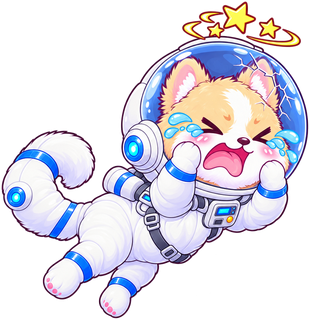
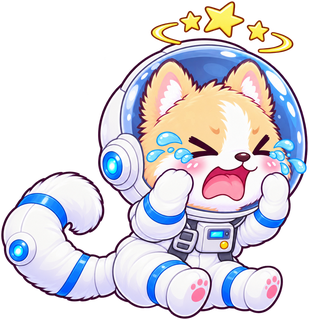
v0.8.07 방울이 우주복 맞은 그림 교체 — 엉덩방아·뒷다리 앞으로, 혹·유리 금 없음

diff --git a/index.html b/index.html
@@ -1027,7 +1027,7 @@
   const elTitle = document.getElementById("overTitle");
   const coinNote = document.getElementById("coinNote");
 
-  const GAME_VERSION = "v0.8.06";
+  const GAME_VERSION = "v0.8.07";
   /* 제작사 스플래시(bamhobak friends 로고) — 2026-09-20 끔. 다시 켜려면 true */
   const SPLASH_USE = false;   // 코드를 고칠 때마다 뒤 두 자리를 올린다
   document.getElementById("ver").textContent = GAME_VERSION;
@@ -1582,10 +1582,12 @@
        얼굴 크기는 adj 0.571 로 땅 위와 같고, 맞은 그림(spacehurt6_1)은 헬멧 지름이 헤엄 때와 같아지게 adj 를 잡았다. */
     /* v0.8.06 새 방울이(짧은 귀)에 맞춰 우주복도 새로 — 하얀 단단한 헬멧에 큰 유리, 파란 띠
        (OpenAI b2_suitA_1 → Ludo 49장 시트 7x7, 칸 214x200). 귀가 땅 위와 같은 크기로 헬멧 안에 들어간다.
-       맞은 그림(b2_spacehurt2_1)은 헬멧 지름이 헤엄 때와 같아지게 adj 를 잡았다. */
+       맞은 그림은 헬멧 지름이 헤엄 때와 같아지게 adj 를 잡았다.
+       v0.8.07 맞은 그림 교체 — 땅 위 맞은 그림처럼 엉덩방아 찧고 뒷다리를 앞으로 뻗는다. 헬멧이 머리를
+       지켰으니 혹도, 유리 금도 없다 (Codex cx_spacehurt3_3 을 사용자가 손봄). */
     right: { img: null, aspect: 1.0700, head: 0.400, cx: 0.700, cy: 0.390, adj: 0.5710,
              bcx: 0.500, bcy: 0.530, brr: 0.530, float: true },
-    hurt:  { img: null, aspect: 0.9688, head: 0.360, cx: 0.720, cy: 0.420, adj: 0.5400,
+    hurt:  { img: null, aspect: 0.9656, head: 0.360, cx: 0.680, cy: 0.400, adj: 0.5000,
              bcx: 0.500, bcy: 0.540, brr: 0.520 }
   };
   /* 무소유 전용 우주복 —

diff --git a/README.md b/README.md
@@ -5,7 +5,7 @@
 👉 **플레이: https://bamhobak.github.io/ddongpi/**
 
 > 이 문서는 `index.html` 의 실제 값을 옮겨 적은 것입니다. 숫자를 고쳤으면 여기도 같이 고쳐 주세요.
-> 마지막으로 맞춰 본 판: **v0.8.06**
+> 마지막으로 맞춰 본 판: **v0.8.07**
 
 ## 조작
 - 📱 모바일: 화면 아무 데나 손가락을 대고 좌우로 **끌기** (누른 자리가 기준점 — 순간이동하지 않음). 조작은 이 하나뿐입니다 — 십자패드는 v0.8.02 에 없앴습니다
@@ -294,7 +294,7 @@
 | `bangul_hurt.png` (맞았을 때, 1초) | OpenAI — 머리에 혹·별, 눈 `> <`, 눈물, 엉엉 | 게임 안 |
 | `bangul_space_right.png` (우주복 정지) | OpenAI — **하얀 단단한 헬멧에 큰 유리**(귀가 땅 위와 같은 크기로 쏙), 파란 띠 두른 하얀 우주복, 등에 산소통 (v0.8.06) | 우주복 헤엄의 원본 |
 | `bangul_space_swim_sheet.webp` (우주 개헤엄 49장, 7×7 시트, 78초~) | 위 그림을 Ludo 로 움직임 | 게임 안 |
-| `bangul_space_hurt.png` (우주에서 맞았을 때) | OpenAI — 헬멧에 금, `> <` 로 엉엉, 별 (헬멧 크기를 헤엄 때와 맞춤) | 게임 안 |
+| `bangul_space_hurt.png` (우주에서 맞았을 때) | Codex(ChatGPT 구독) — 땅 위 맞은 그림처럼 엉덩방아·뒷다리 앞으로, `> <` 로 엉엉, 별. 헬멧이 지켜 줘서 **혹·유리 금 없음** (v0.8.07, 헬멧 크기를 헤엄 때와 맞춤) | 게임 안 |
 | `bangul_swim_sheet.webp` (개헤엄 49장, 7×7 시트) | 위 그림을 Ludo `animateSprite`(hydra, 3초)로 움직임 | 게임 안 |
 
 (2026-09-22 흰 푸들에서 바뀜. 2026-09-24(v0.8.06) 짧은 귀로 다섯 장 모두 다시 그림 — 강아지 귀는 **짧게, 좌우 같은 모양으로**: 그림을 좌우로 뒤집어 왼쪽으로 쓰고, 우주복 헬멧에도 들어가야 해서.)
